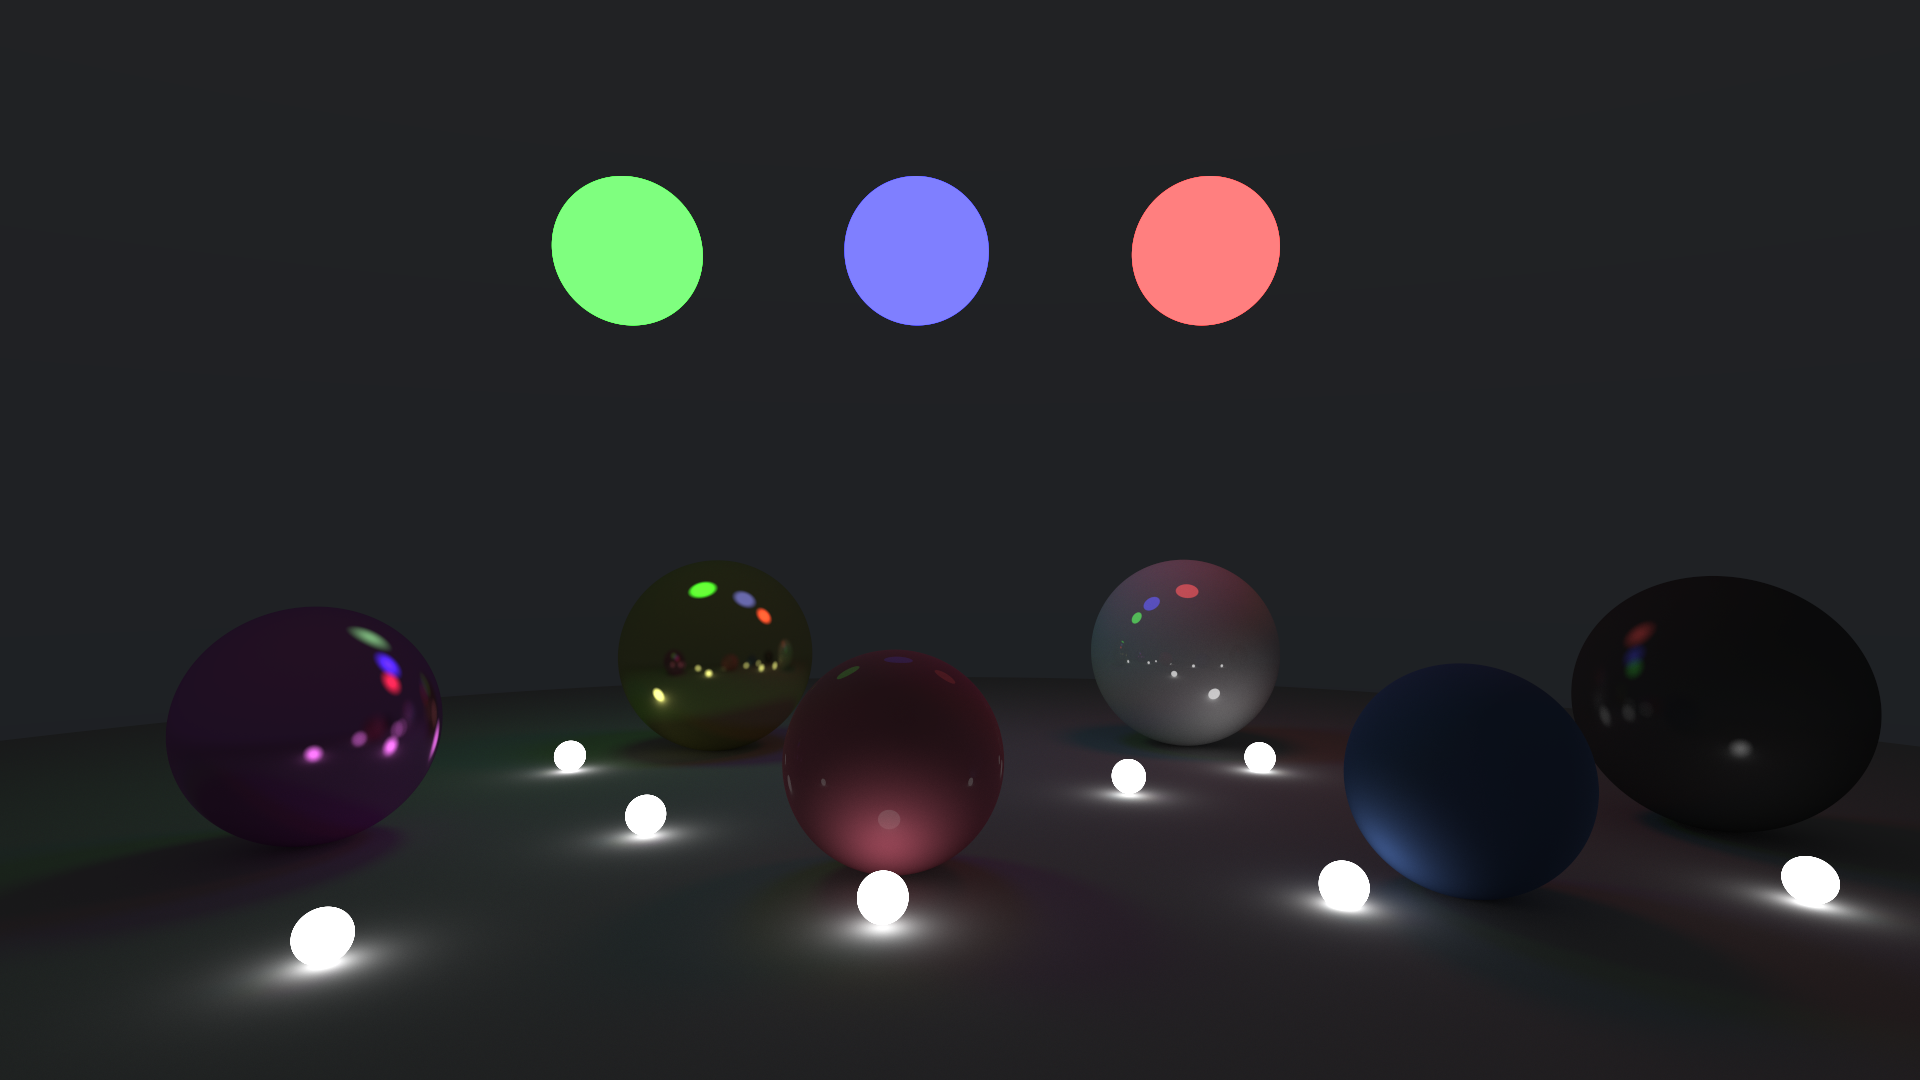
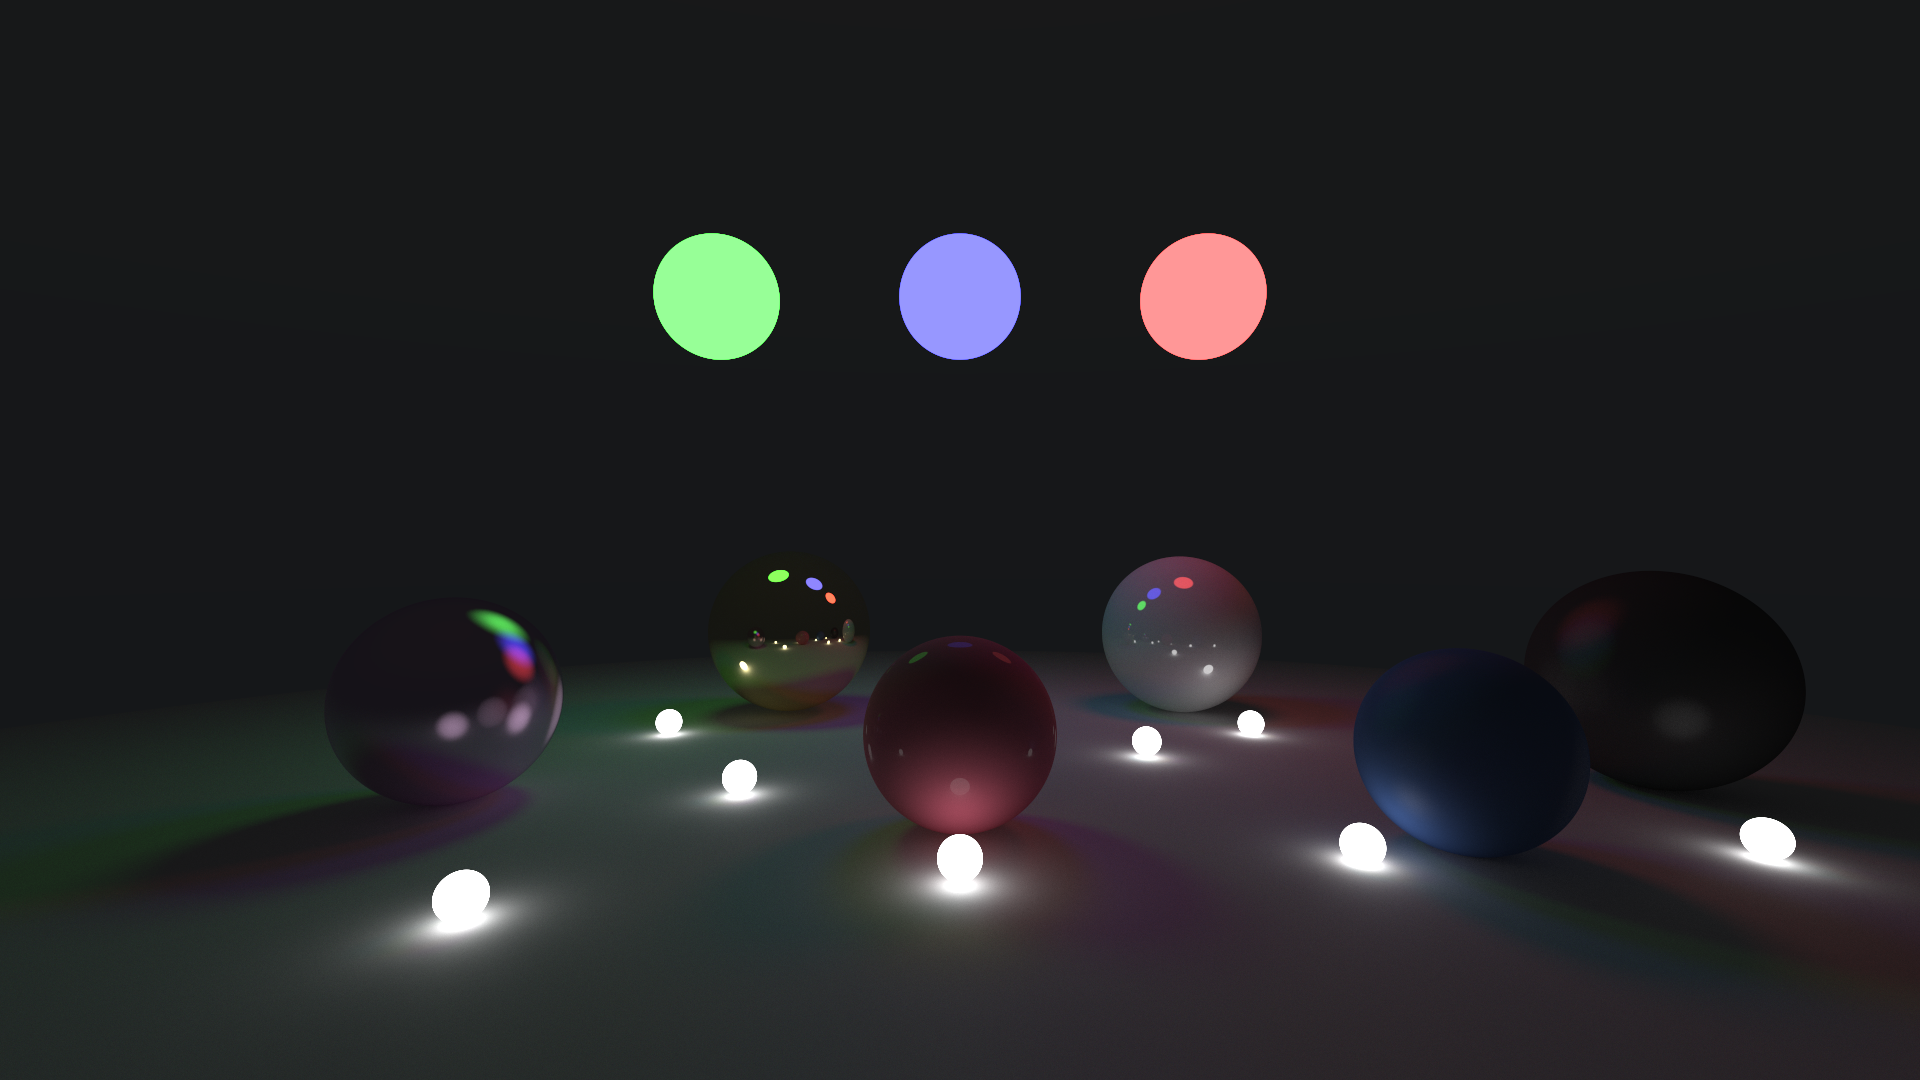
feat: add FOV configuration

diff --git a/include/path_tracer/camera.h b/include/path_tracer/camera.h
@@ -13,8 +13,11 @@ public:
 	int samples_per_pixel = 10;	
 	int max_depth = 10;
 	int image_height;
-	float focal_length = 1.0;
 	point3 center = point3(0, 0, 0);
+
+	double vfov= 90;
+
+
 
 	ray get_ray(int i, int j) const {
 		auto offset = sample_square();
@@ -25,7 +28,7 @@ public:
 		auto ray_origin = center;
 		auto ray_direction = pixel_sample - ray_origin;
 
-		return ray(ray_origin, ray_direction);
+		return ray(ray_origin, unit_vector(ray_direction));
 	}
 
 	void initialize() {
@@ -34,7 +37,8 @@ public:
 
 		pixel_samples_scale = 1.0 / samples_per_pixel;
 
-		auto viewport_height = 2.0;
+		double vfov_radians = utils::degrees_to_radians(vfov);
+		auto viewport_height = 2 * std::tan(vfov_radians /2) * focal_length;
 		auto viewport_width = viewport_height * (double(image_width)/image_height);
 
 		auto viewport_u = vec3(viewport_width, 0, 0);
@@ -48,7 +52,7 @@ public:
 					-viewport_u/2
 					-viewport_v/2;
 
-		 pixel_00_loc = viewport_upper_left + 0.5 * (pixel_delta_u + pixel_delta_v);
+		pixel_00_loc = viewport_upper_left + 0.5 * (pixel_delta_u + pixel_delta_v);
 	}
 
 
@@ -58,6 +62,7 @@ private:
 	vec3 pixel_delta_u;
 	vec3 pixel_delta_v;
 	double pixel_samples_scale; //color scale factor for a sum of pixel samples
+	float focal_length = 2.0;
 
 	vec3 sample_square() const {
 		return vec3(utils::random_double() - 0.5, utils::random_double() - 0.5, 0);

diff --git a/include/path_tracer/utils.h b/include/path_tracer/utils.h
@@ -4,6 +4,8 @@
 #include <random>
 namespace utils {
 
+	const double pi = 3.141592653589793;
+	
 	inline double random_double() {
 		static std::uniform_real_distribution<double> distribution(0.0, 1.0);
 		static std::mt19937 generator;
@@ -14,6 +16,9 @@ namespace utils {
 		return min + (max - min) * random_double();
 	}
 
+	inline double degrees_to_radians(double theta) {
+		return (pi * theta) / 180;
+	}
 }
 
 #endif

diff --git a/include/path_tracer/scene_loader.h b/include/path_tracer/scene_loader.h
@@ -5,8 +5,6 @@
 #include <string>
 #include "camera.h"
 
-#include <iostream>
-
 //https://github.com/jbeder/yaml-cpp/wiki/Tutorial
 namespace YAML {
 template<>
@@ -99,9 +97,8 @@ private:
 		auto cam_node = m_scene_file["camera"];
 
 		cam.center = cam_node["center"].as<vec3>(vec3(0, 0, 0));
-		cam.focal_length = cam_node["focal_length"].as<double>(2.0);
+		cam.vfov = cam_node["fov"].as<double>(90.0);
 	}
 };
-
 
 
